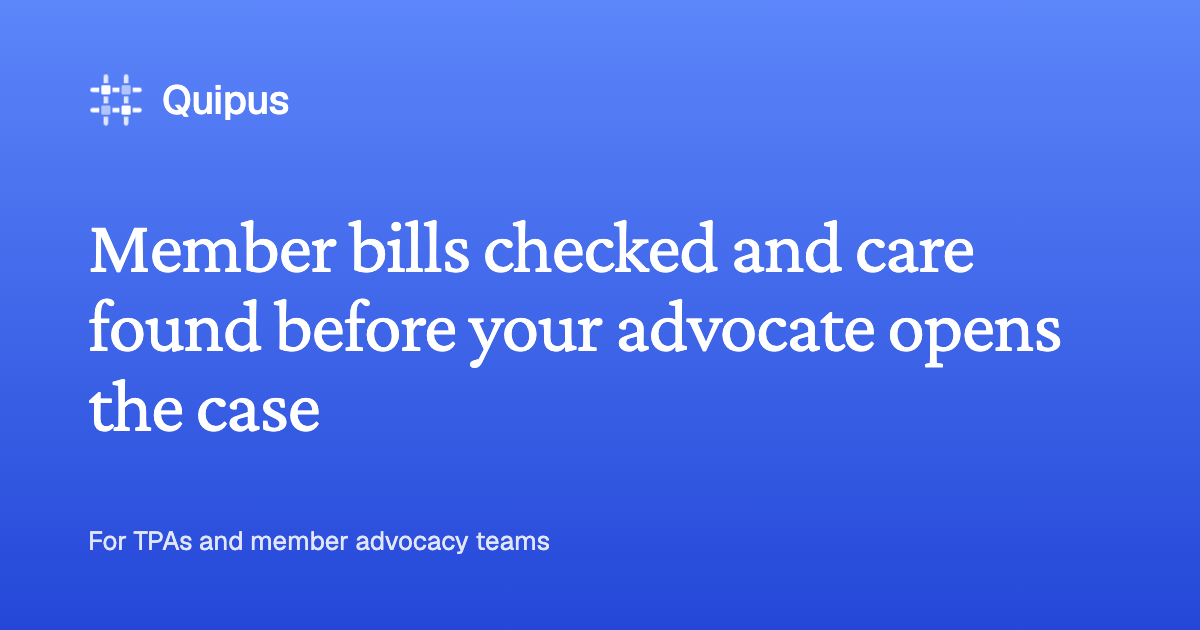
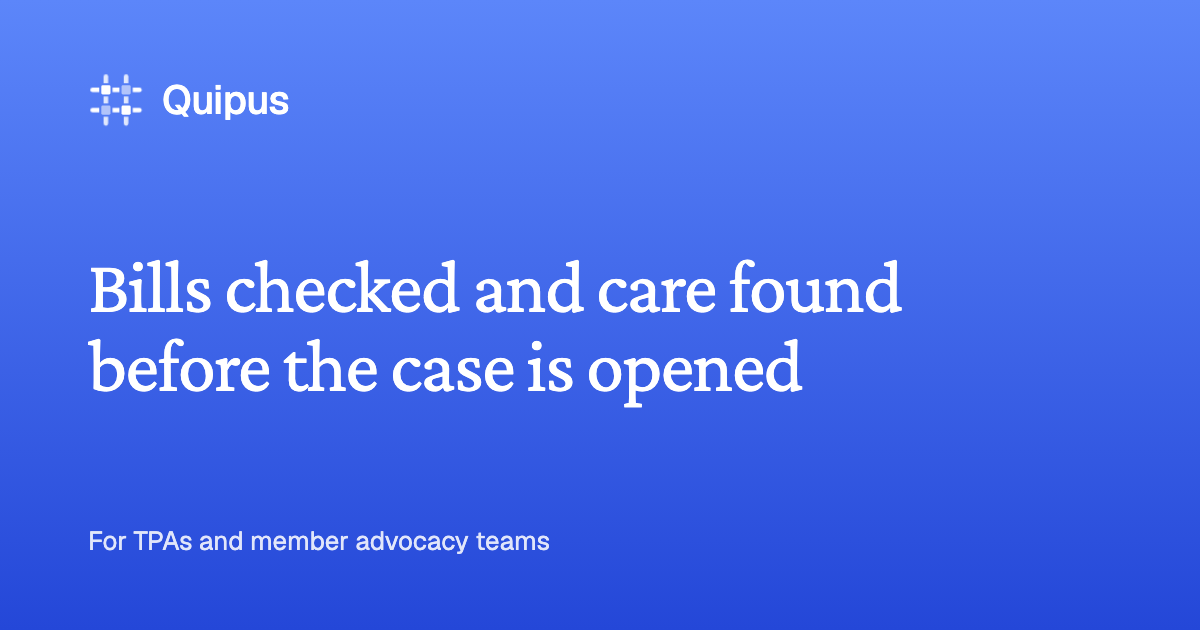
feat: shorter hero headline on the live site
"Bills checked and care found before the case is opened", the short hero
already used on /version3/ and listed in the brand book. Link-preview image
and alt text updated to match.

Changed region(s): [[0.0617, 0.3317, 0.8942, 0.6937]]

diff --git a/index.html b/index.html
@@ -15,7 +15,7 @@
 <meta property="og:image" content="https://quipus-xi.vercel.app/assets/img/og-image.png">
 <meta property="og:image:width" content="1200">
 <meta property="og:image:height" content="630">
-<meta property="og:image:alt" content="Quipus: member bills checked and care found before your advocate opens the case">
+<meta property="og:image:alt" content="Quipus: bills checked and care found before the case is opened">
 <meta name="twitter:card" content="summary_large_image">
 <meta name="twitter:title" content="Quipus | Bill advocacy and care finding for TPAs and advocacy teams">
 <meta name="twitter:description" content="Quipus reads each bill, EOB, email, fax and text your members send. It prepares the case, finds fair-priced care and drafts the reply for your advocates.">
@@ -71,7 +71,7 @@
 <section class="hero">
   <div class="sky">
     <canvas id="particles" aria-hidden="true"></canvas>
-    <h1 id="heroH">Member bills checked and care found before your advocate opens the case</h1>
+    <h1 id="heroH">Bills checked and care found before the case is opened</h1>
     <p class="sub fade" style="--d:2">Quipus reads what your members send, finds what is wrong on a bill or the best-priced care, and prepares the reply</p>
     <div class="actions fade" style="--d:3">
       <a class="cta black" href="#contact">Book a demo <i data-lucide="arrow-right" class="arr" width="16" height="16"></i></a>
